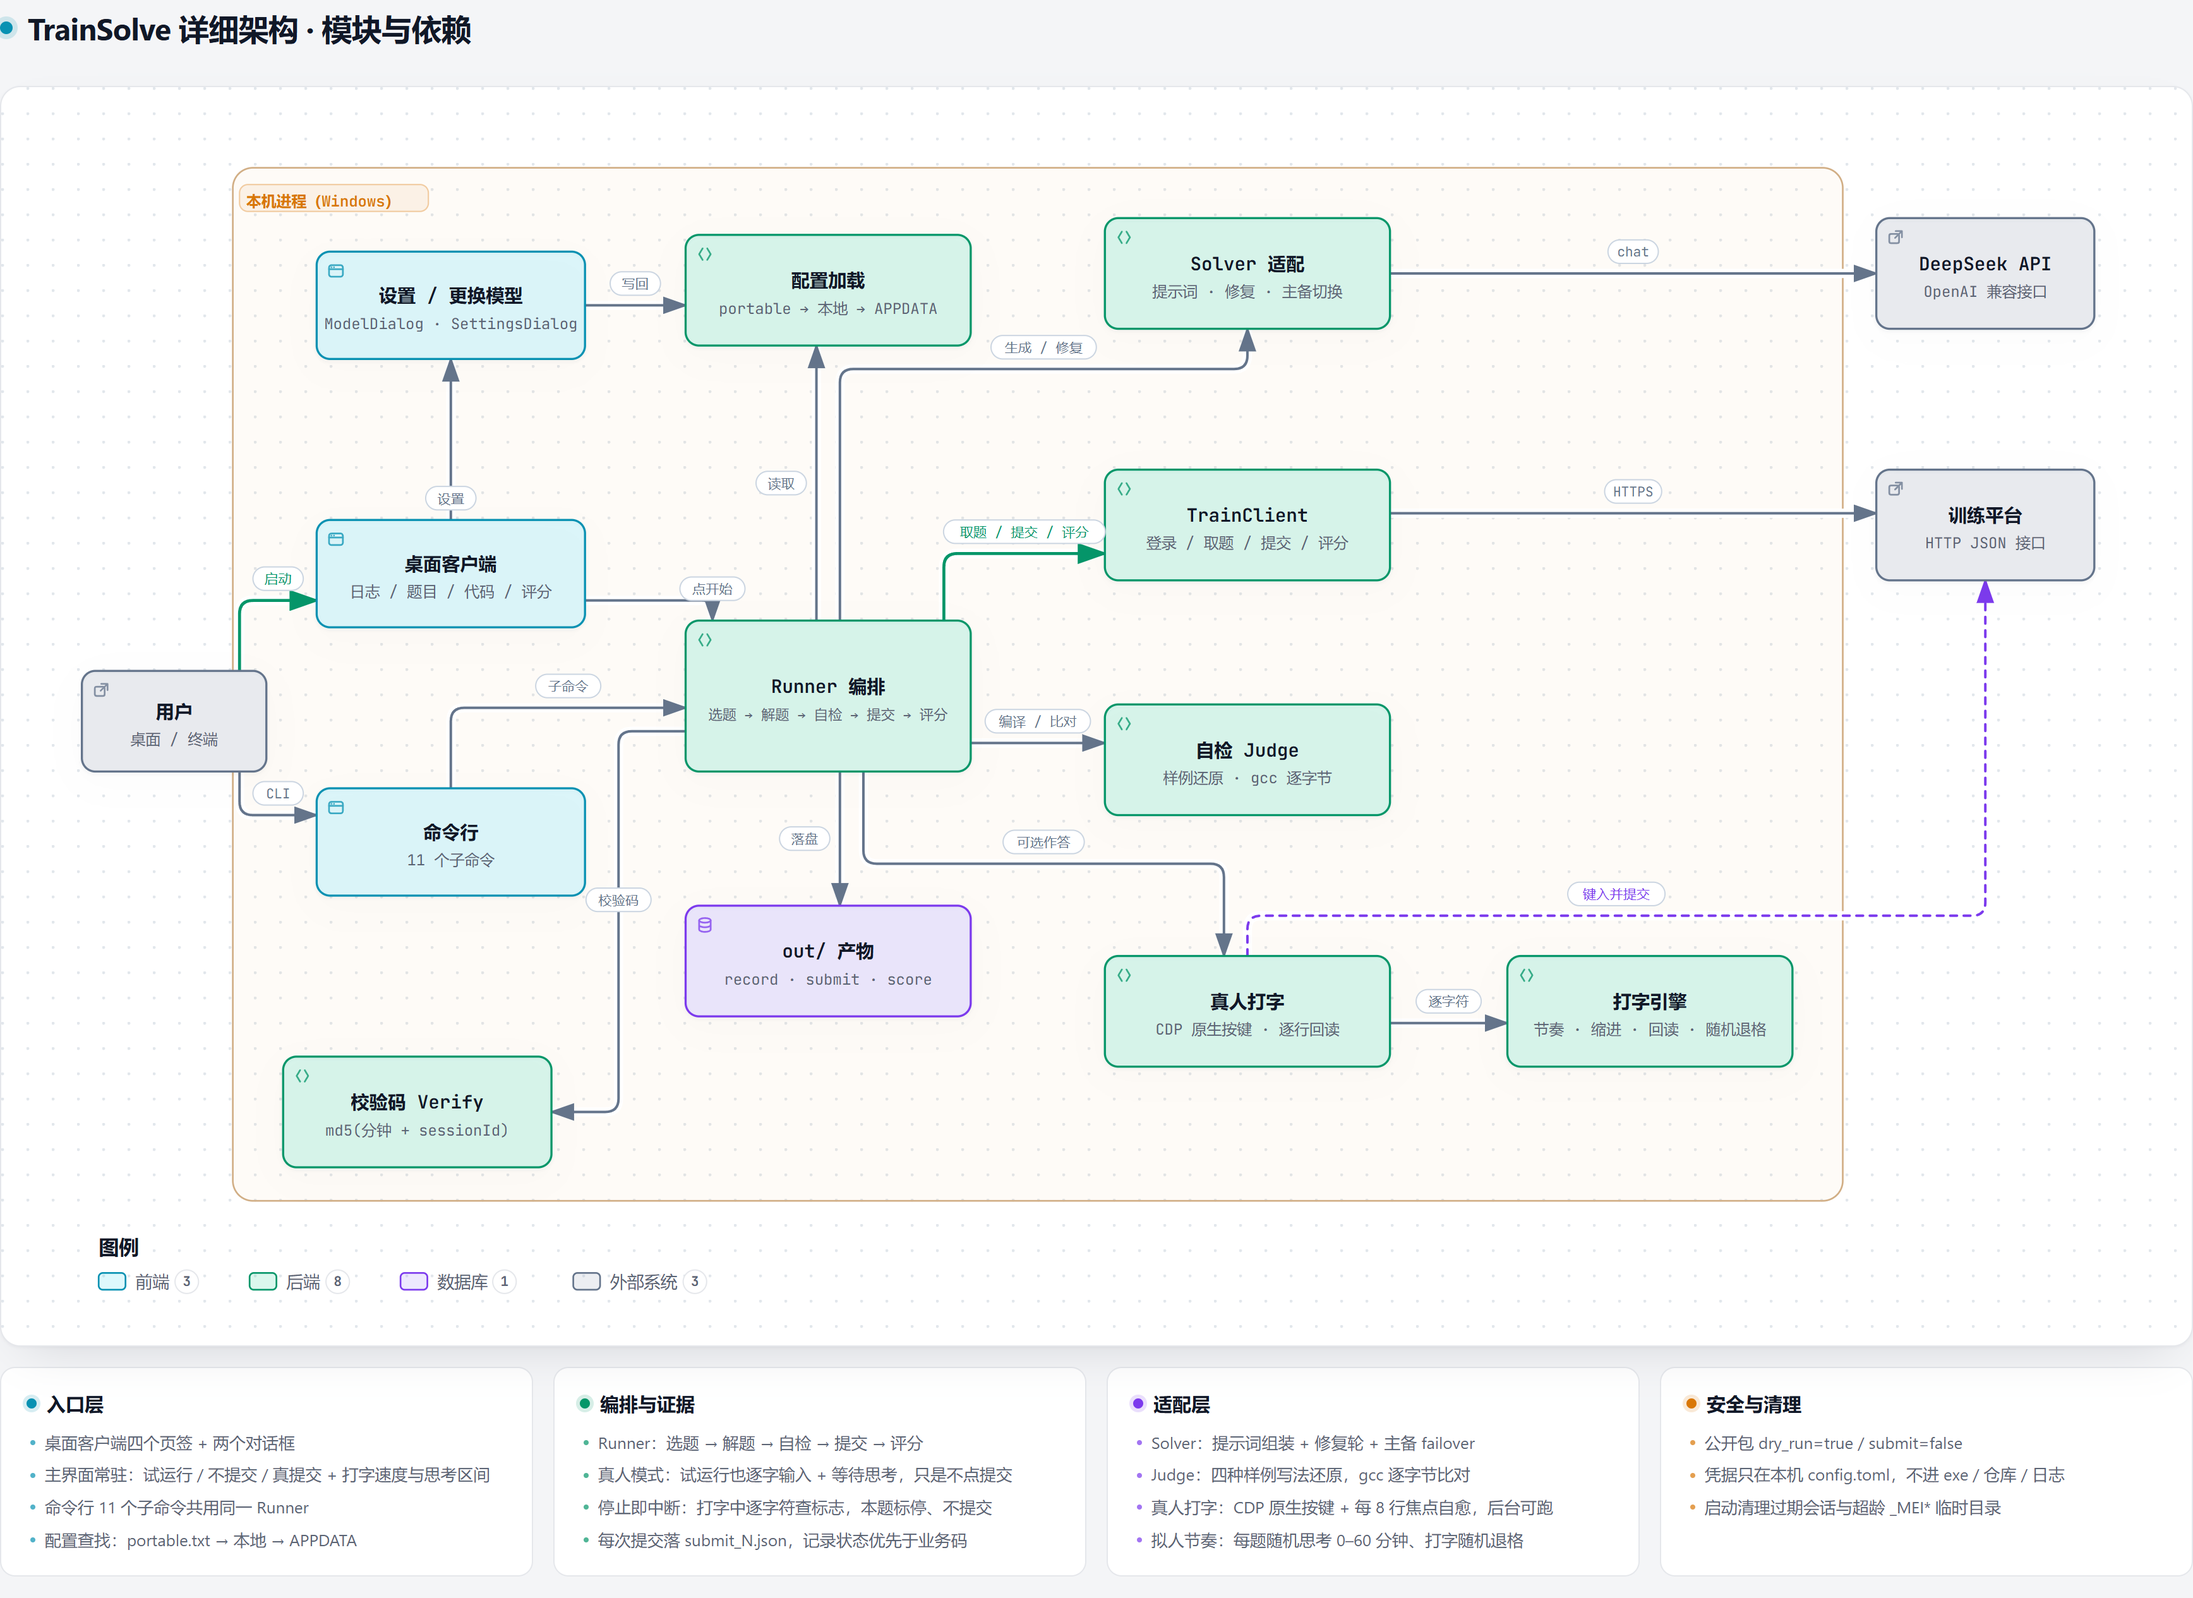
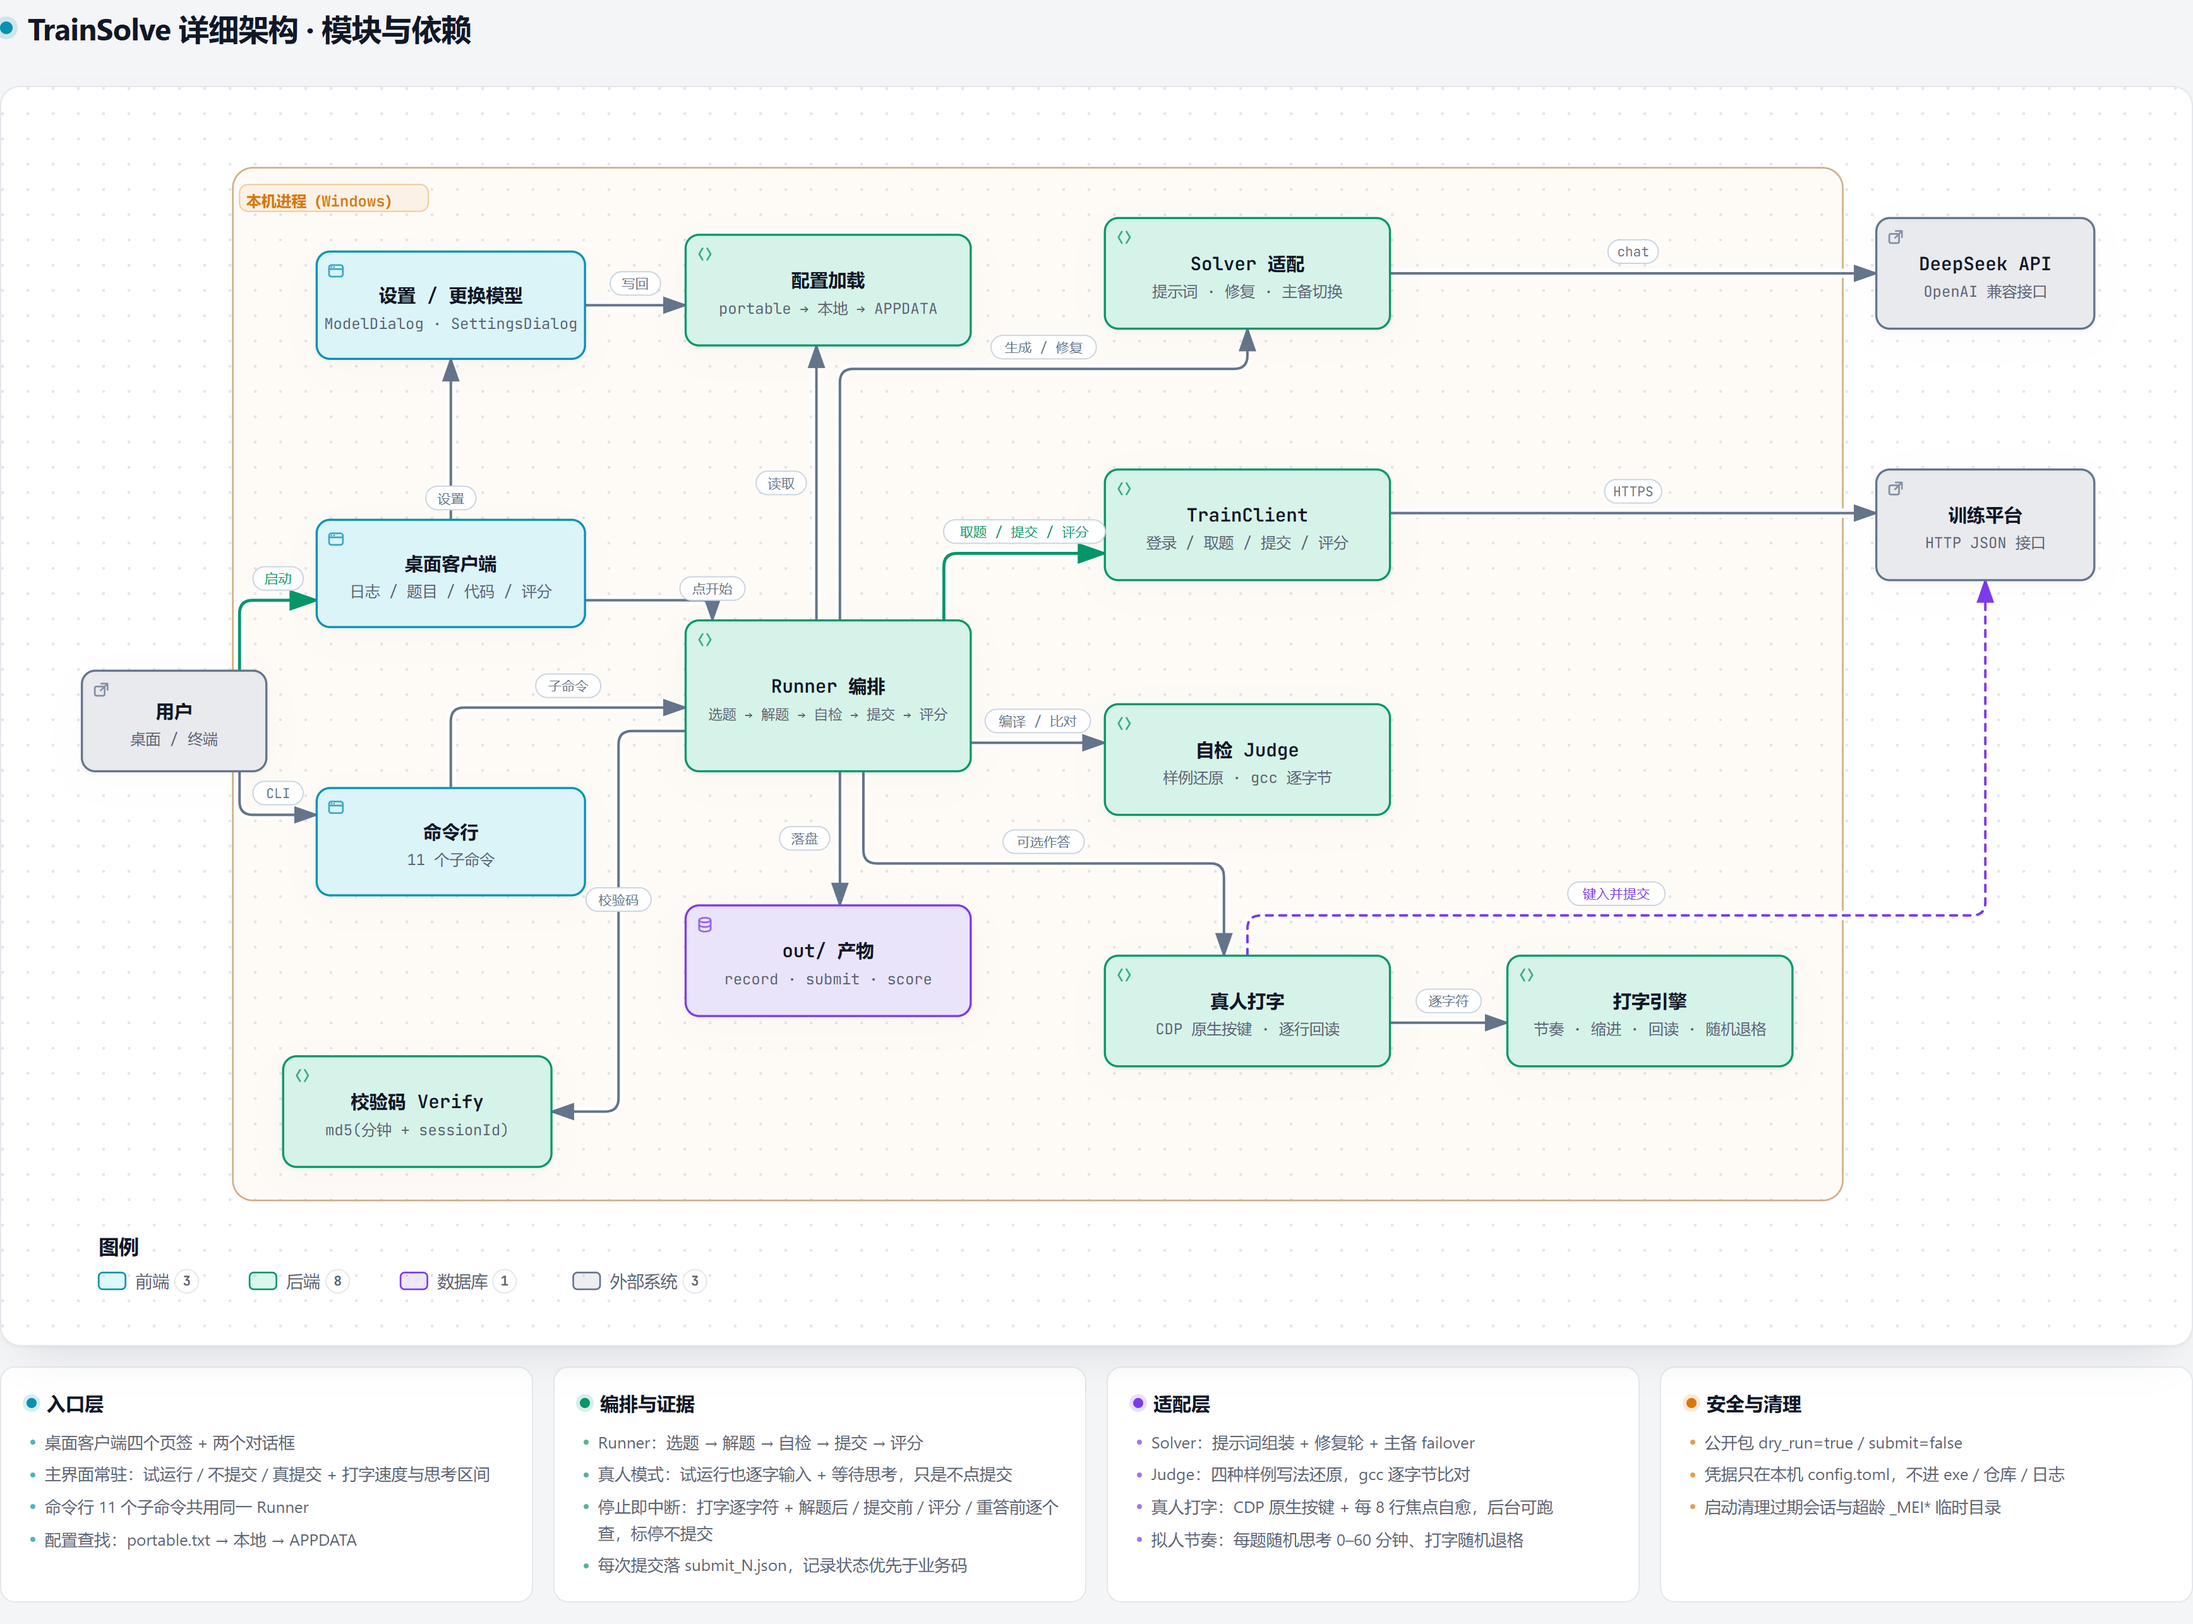
0.6.6：停止检查补到解题后/提交前/修复/评分/重答，README 与架构图同步

diff --git a/trainsolve/__init__.py b/trainsolve/__init__.py
@@ -4,4 +4,4 @@
 （GUI 勾选或 `--human`）用 Playwright 的 connect_over_cdp 驱动本机 Chrome。
 """
 
-__version__ = "0.6.5"
+__version__ = "0.6.6"

diff --git a/docs/使用说明-公开版.md b/docs/使用说明-公开版.md
@@ -97,7 +97,8 @@
 - **答题不需要浏览器在前台**（0.6.5 起）：逐字输入走 CDP 注入，Chrome 最小化或你切去别的窗口都照常；
   每 8 行自动把光标点回编辑器（不抢前台、不弹窗），不会把字打空。锁屏不行——渲染会被节流；
 - **点「停止」立刻停手**（0.6.5 起）：正在逐字打字时每敲一个字符查一次停止标志，命中即停、绝不提交，
-  本题标为「已停止（打字过程中被中断，未提交）」；唯一要等的是已经发出去的那次模型请求，它返回后立刻停；
+  本题标为「已停止（打字过程中被中断，未提交）」；0.6.6 起解题算完、准备暂存/提交前、等待评分、重答前也都会查，
+  点停止后**不会再暂存答案、不会再 submit**；唯一要等的是已经发出去的那次模型请求，它返回后立刻停；
 - **打字时会随机退格**：设置里「随机退格 概率 / 每次最多删 × 字符」（默认 0.01 / 2），
   删掉刚打的几个字符再原样补回，内容不会变；填 0 关闭；
 - 只覆盖编程题（C 语言）；打字是真实节奏，50 行大概 1.5–3 分钟。
@@ -125,24 +126,28 @@
 **自检未通过**（编译不过 / 样例输出对不上）的答案默认**不提交**，避免白占一次作答机会；
 确实要交就在设置里勾「自检未通过也提交（--force，不推荐）」。
 
-## 本版变化（0.6.5）
+## 本版变化（0.6.6）
 
-- **点「停止」立刻停手**：以前只是置位标志，正在打的字要打完才停；现在打字循环每敲一个字符查一次停止标志，
-  命中立即抛停、本题标「已停止（打字过程中被中断，未提交）」，不再继续敲、更不会提交。等待思考期间照旧立即中断；
-  唯一要等的是已经发出去的那次模型 HTTP 请求，它返回后立刻停。
-- **主界面也保留速度与思考区间**：左侧「模拟真人打字」下面新增「打字速度 [220] 字符/分」与
-  「随机思考 [min]–[max] 分钟」两行，随时可改、越界自动夹紧、写反自动交换，和设置里那份双向同步；开始跑时按主界面当前值生效。
-- **答题不再要求浏览器焦点**：逐字输入本来就走 CDP 注入，之前踩的是「焦点丢了之后按键打空」；
-  现在每 8 行做一次焦点自愈（页面内 `focus()` + CDP 鼠标点一下编辑器），既不要求窗口置前、也不会把 Chrome 拽到前面，
-  日志会写「后台可跑、不要求 Chrome 置前」。注意锁屏仍不行：锁屏后渲染会被节流。
-- 0.6.4 的内容仍在本版：真人模式下试运行/不提交也会真等待、真逐字输入，只是不点提交。
+- **修一个「点了停止还在跑」的真漏洞**：0.6.5 只在主循环开头和打字循环里看停止标志，**解题（一次模型调用
+  可能几十秒到几分钟）和评分（最多等 300 秒）两段完全不看**——你点停止，工具照样把算好的答案暂存、照样提交，
+  白烧一次作答机会。现在这些位置逐个补上检查：
+  - 解题算完、组答案之前 → 命中就收尾，不暂存、不提交；
+  - 已经停止时连 `solve` / `repair` 都不再发请求（不再浪费模型调用）；
+  - 等待评分期间每轮查一次 → 立即返回，不再干等 5 分钟，也不再重答；
+  - 重答前查一次（重答会撤销刚提交的成绩，更不该乱来）；
+  - 题与题之间的等待改成可中断，界面确认弹窗 250 ms 一查、停止即放弃。
+- 收尾区分两种情况：**没提交过**的题标「已停止（…未提交）」并清掉会话；**已经提交**的只是不等评分，
+  记录留给平台自己判，绝不清理（清掉会动到刚提交的记录）。
+- 两处误导文案改掉：全自动启动时不再说「当前题做完后停」；「已请求停止」现在写清「正在打字会立刻停手，
+  已发出的模型请求返回后就停，不再暂存、不再提交」。
+- 0.6.5 的内容仍在本版：停止立即中断打字、主界面常驻速度与思考区间、焦点自愈支持后台运行。
 
-## 已知缺口（0.6.5 未解决，请先看这一节）
+## 已知缺口（0.6.6 未解决，请先看这一节）
 
 | 缺口 | 现象 | 现在怎么办 |
 |---|---|---|
 | **高 DPI 只实测了 150% 一档** | 自 0.5.1 起程序声明了 Per-Monitor V2 DPI 感知，150% 缩放下文字清晰、间距随缩放一起放大；但本机只有一块 150% 屏，**100% / 125% / 175% 未实测**，多显示器不同缩放跨屏拖动也未验 | 单屏直接用即可，**不要**再去设右键属性里的「替代高 DPI 缩放行为」，对已声明感知的程序那样做会二次缩放、反而更糊 |
-| **发布包内没有版本历史** | 源码仓库已开源（`github.com/Huang0907/train-solver`，MIT），但发布 zip 里不含 `.git`；包内能标出版本的只有包名和窗口标题里的 `v0.6.5` | 需要历史与回滚请用源码仓库；只升级客户端就替换整个文件夹 |
+| **发布包内没有版本历史** | 源码仓库已开源（`github.com/Huang0907/train-solver`，MIT），但发布 zip 里不含 `.git`；包内能标出版本的只有包名和窗口标题里的 `v0.6.6` | 需要历史与回滚请用源码仓库；只升级客户端就替换整个文件夹 |
 | **随机题可能抽到白名单外的题型** | 题型选「随机（-1）」时，平台可能返回不在所选 `qtypes` 里的题型；客户端会自动跳过该题（`skip-this`），**代价是一次抽题配额 + 约 60 秒限流等待**，日志里会看到跳过原因 | 想要稳就选具体题型，不要用「随机」；随机只在“题库抽空/限额”这类场景省事 |
 | 右下角进度条是视觉瑕疵 | 进度条空槽与背景同色，空闲时只剩一小块绿条，容易被误认为异常 | 不影响功能，任务运行时会滚动；留到下个版本修 |
 | **真提交链路：0.5.4 出过事，0.5.5 已修，2026-11-08 复测通过** | 0.5.0 有历史真提交证据；**0.5.4 在真平台实测过一次，暴露的问题是：提交被判 0/12 后自动重答，平台把记录重新打开，刚才的成绩被撤销**；0.5.5 已修复（默认关闭自动重答、记录状态优先于业务码），**2026-11-08 已在真平台复测通过：submit 只发一次、记录停在 `state=1` / 12/12、未报「提交状态未知」**（session `fec9ac14…`，消耗一次真实提交机会） | 第一次用先在设置里保持「试运行 / 不提交」跑一轮，看清题目、答案与日志再开真提交；**别把第一次真提交留到赶作业的那个晚上** |

diff --git a/README.md b/README.md
@@ -2,7 +2,7 @@
 
 把「选题 → 写代码 → 自检 → 提交 → 等判分 → 按报错修改」这一整套重复劳动交给脚本。Windows 桌面版开箱即用，命令行版可脚本化，模型接 DeepSeek，可换任意 OpenAI 兼容网关。
 
-![version](https://img.shields.io/badge/version-0.6.5-blue)
+![version](https://img.shields.io/badge/version-0.6.6-blue)
 ![license](https://img.shields.io/badge/license-MIT-green)
 ![python](https://img.shields.io/badge/python-3.11%2B-blue)
 ![platform](https://img.shields.io/badge/platform-Windows-lightgrey)
@@ -127,7 +127,7 @@ python -m trainsolve models --check   # 逐个发最小请求验证可用性
 | 右侧页签 | 日志、题目、代码（可编辑）、评分 |
 | 底部 | 状态栏 + 进度条 |
 
-网络与模型调用都在后台线程，UI 用队列收消息；点「停止」不会卡界面，且**正在逐字打字时会立刻停手**（每敲一个字符查一次停止标志），本题标记「已停止（打字过程中被中断，未提交）」，等待思考期间同样立即中断——只有一次已经发出的模型 HTTP 请求要等它返回才停。关窗会取消所有待触发的定时器并请求停止。配置保存在 `%APPDATA%\TrainSolve\config.toml`（便携模式下在 exe 同目录）。
+网络与模型调用都在后台线程，UI 用队列收消息；点「停止」不会卡界面，而且**每一段都会看这个标志**：逐字打字时每敲一个字符查一次（本题标「已停止（打字过程中被中断，未提交）」），随机思考与题间等待按切片查，**解题算完、准备暂存/提交的最后一刻再查一次**，等待评分期间每轮查一次——命中就收尾，不暂存、不提交、不重答。只有一次已经发出去的模型 HTTP 请求要等它返回才停（返回后也不会再往下走）。关窗会取消所有待触发的定时器并请求停止。配置保存在 `%APPDATA%\TrainSolve\config.toml`（便携模式下在 exe 同目录）。
 
 ## 命令行
 
@@ -243,7 +243,7 @@ out/session.json                    登录会话缓存
 
 **答题时要不要让 Chrome 一直在最前面？** 不用。逐字输入走 CDP 注入，不看窗口焦点；每 8 行会自己把光标点回编辑器（不弹窗、不抢前台）。锁屏不行——锁屏后渲染会被节流，别指望它在你离开时跑完。
 
-**点「停止」为什么没立刻停？** 0.6.5 起打字中每敲一个字符就会看一次停止标志，命中即停、绝不提交；等待思考时也是立即中断。唯一要等的是**已经发出去的那次模型 HTTP 请求**——它返回后立刻停，不会再继续下一步。
+**点「停止」为什么没立刻停？** 分几种情况看日志：逐字打字时是**每敲一个字符**查一次（命中即停、绝不提交）；随机思考、题间等待、等评分都是按切片查，通常一秒内就退。唯一要等的是**已经发出去的那次模型 HTTP 请求**——它返回后立刻停，而且**不会再暂存或提交**（0.6.6 起，解题后、提交前、重答前都会再查一次停止）。如果日志出现「已提交，评分未回」，那是提交已经发生、只是不等评分了，记录以平台为准。
 
 ## 已知限制
 
@@ -308,6 +308,7 @@ python -m trainsolve run --count 1 --human --backspace-rate 0.03 --backspace-max
 
 | 版本 | 主要变更 |
 |---|---|
+| **0.6.6**（2026-11-10） | 修「停止」只在主循环开头与打字循环里查的漏洞：**解题算完仍会暂存并 submit**（白烧一次作答机会）、修复轮、`wait_record`（最多 300 秒）、重答流程、题间等待、界面确认弹窗全都无视停止。现在解题后、提交前、修复前、评分轮询、重答前逐个查；`stopped` 收尾不暂存不提交并清理未提交会话；已提交的场景只放弃等评分、不动记录。新增 7 条用例，四处修复逐条造红。 |
 | **0.6.5**（2026-11-10） | 三处体验修复：**停止立即中断**（逐字打字时每字符查标志、抛 `HumanStopped`，本题标「已停止、未提交」，不再打完才停）；**主界面常驻速度与思考**（打字速度、随机思考区间两行，与设置双向同步、写反自动交换）；**答题不要求浏览器焦点**（每 8 行焦点自愈，后台可跑、不把 Chrome 拽到前面）。 |
 | **0.6.4**（2026-11-10） | 修真人模式的执行顺序：此前 `dry_run` / `submit=false` 会在「模拟真人打字」分支之前提前返回，导致配置好的**随机思考时间与逐字输入一次都没发生**。现在先按真人方式打完再决定交不交，日志区分 `dry-run：已按真人方式输入并校验，未提交`。 |
 | **0.6.3**（2026-11-10） | 默认模型入口统一为官方 `deepseek-flash @ https://api.deepseek.com`：设置里的「模型」下拉框只列官方 id 且 flash 在第一位，去掉旧网关 `cn:` 选项；`--model` 帮助文字同步（原先还写着 deepseek-chat）。配置默认值本来就是官方 flash，无迁移。 |
